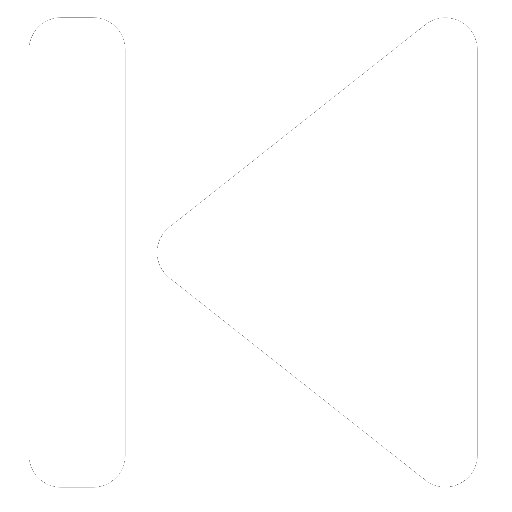
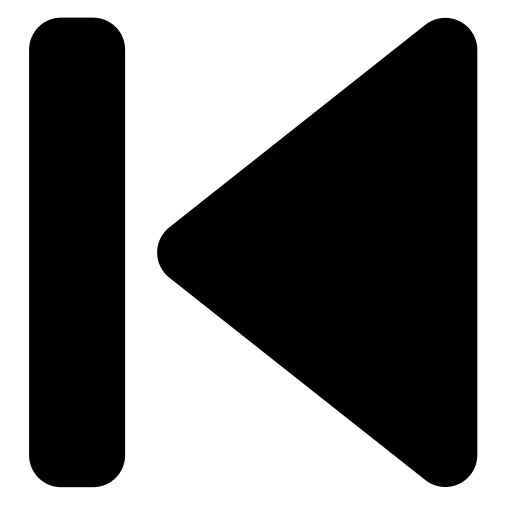
Revert "- Изменил цвет картинок"
This reverts commit 33b50a7a20209633890c28fd7d57c7d593bb3e63.

diff --git a/MainWindow.xaml b/MainWindow.xaml
@@ -206,7 +206,7 @@
                                     TickFrequency="1" 
                                     IsSnapToTickEnabled="True"
                                     SmallChange="1" LargeChange="1"
-                                    Value="1"
+                                    Value="0"
                                     Width="100" 
                                     HorizontalAlignment="Center"
                                     ValueChanged="TrackEndModeSlider_ValueChanged"
@@ -223,7 +223,7 @@
                                     HorizontalAlignment="Center"
                                     VerticalAlignment="Center"
                                     Click="InvisibleSliderButton_Click"
-                                    Margin="5,0,0,0"/>
+                                    Margin="10,0,0,0"/>
                             </Grid>
                         </StackPanel>
                         <Label 
@@ -242,15 +242,11 @@
                                 </DataTemplate>
                             </Label.ContentTemplate>
                             <Label.Content>
-                                Только этот трек
+                                Все треки подряд
                             </Label.Content>
                         </Label>
                     </StackPanel>
-                    <StackPanel 
-                        Grid.Column="2" 
-                        Orientation="Horizontal" 
-                        HorizontalAlignment="Right" 
-                        VerticalAlignment="Center">
+                    <StackPanel Grid.Column="2" Orientation="Horizontal" HorizontalAlignment="Right" VerticalAlignment="Center">
                         <Button x:Name="SpeedButtonHalf"   Style="{StaticResource SpeedButtonStyle}" Content="0.5" Margin="3,0" Click="SpeedButton_Click"/>
                         <Button x:Name="SpeedButtonNormal" Style="{StaticResource SpeedButtonStyle}" Content="1"   Margin="3,0" Click="SpeedButton_Click"/>
                         <Button x:Name="SpeedButtonDouble" Style="{StaticResource SpeedButtonStyle}" Content="2"   Margin="3,0" Click="SpeedButton_Click"/>

diff --git a/MainWindow.xaml.cs b/MainWindow.xaml.cs
@@ -141,23 +141,6 @@ public partial class MainWindow
                 });
             }
         }
-
-        if (_isTrackPlaying || AudioFiles.Count == 0) return;
-
-        _currentTrack = AudioFiles[0];
-
-        if (_currentMode == PlaybackMode.RepeatAll)
-        {
-            SetCurrentTrack(AudioFiles[0]);
-            PlayTrack();
-        }
-
-        if (_currentMode == PlaybackMode.Random)
-        {
-            var rand = new Random();
-            SetCurrentTrack(AudioFiles[rand.Next(0,AudioFiles.Count)]);
-            PlayTrack();
-        }
     }
     private void TrackDataGrid_OnSelectionChanged(object sender, SelectionChangedEventArgs e)
     {
@@ -167,7 +150,6 @@ public partial class MainWindow
         if (TrackDataGrid.SelectedItem is not AudioFileInfo selectedTrackInfo) return;
 
         SetCurrentTrack(selectedTrackInfo);
-        PlayTrack();
     }
 
     private void SetCurrentTrack(AudioFileInfo trackInfo)
